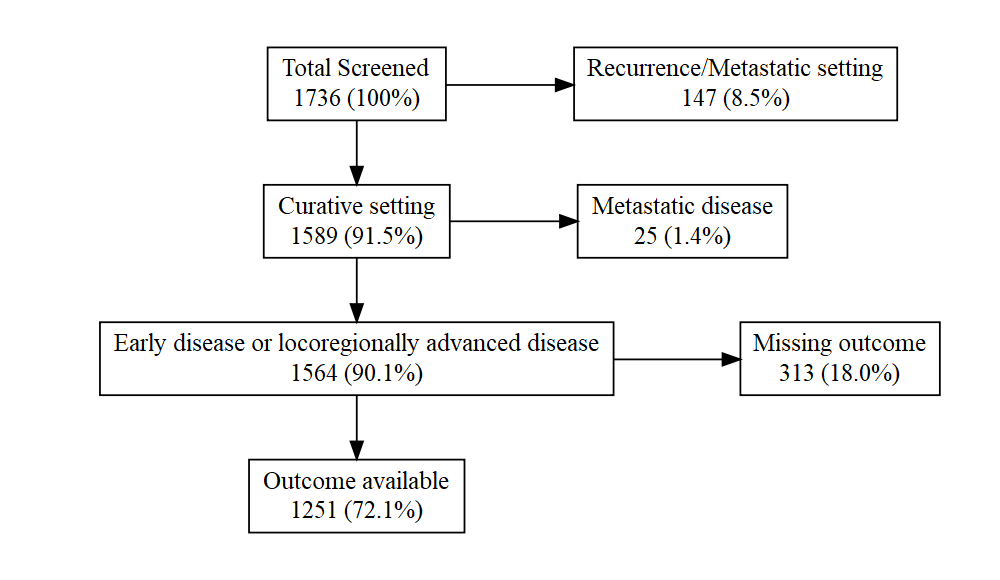
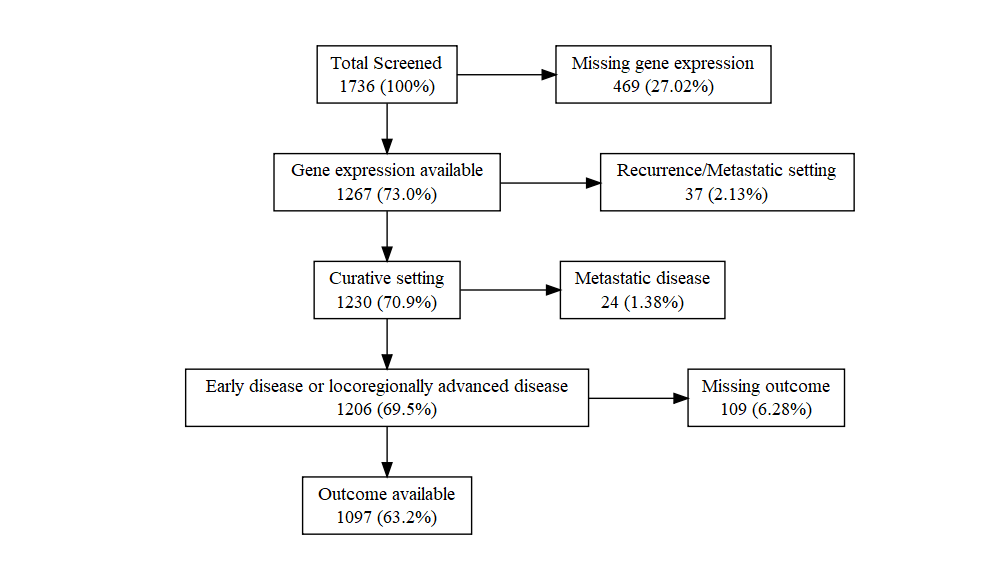
finishing adding all gene signatures

Changed region(s): [[0.093, 0.0621, 0.93, 0.931]]

diff --git a/Exclusion_flowcharts_markdown.md b/Exclusion_flowcharts_markdown.md
@@ -31,7 +31,7 @@ outcome:
 flow_exclusions(incl_counts = c(1736, 1589, 1564, 1251), total_label = "Total Screened",
     incl_labels = c("Curative setting", "Early disease or locoregionally advanced disease",
         "Outcome available"), excl_labels = c("Recurrence/Metastatic setting", "Metastatic disease",
-        "Missing outcome"), percent_of_total = TRUE, labelloc = "t", label = "test")
+        "Missing outcome"), percent_of_total = TRUE)
 ```
 
 ![](Exclusion_flowcharts_markdown_files/figure-gfm/base%20clinical%20dfs-1.png)<!-- -->
@@ -39,13 +39,58 @@ flow_exclusions(incl_counts = c(1736, 1589, 1564, 1251), total_label = "Total Sc
 Next the flowchart for **GS1, GS2 and GS3 and overall survival**. These
 use the same subset of data, but GS3 has different variable encoding.
 
-### STOPPED here
-
 ``` r
-flow_exclusions(incl_counts = c(1736, 1589, 1564, 1251), total_label = "Total Screened",
-    incl_labels = c("Curative setting", "Early disease or locoregionally advanced disease",
-        "Outcome available"), excl_labels = c("Recurrence/Metastatic setting", "Metastatic disease",
-        "Missing outcome"), percent_of_total = TRUE, labelloc = "t", label = "test")
+flow_exclusions(incl_counts = c(1736, 1267, 1230, 1206, 1097), total_label = "Total Screened",
+    incl_labels = c("Gene expression available", "Curative setting", "Early disease or locoregionally advanced disease",
+        "Outcome available"), excl_labels = c("Missing gene expression", "Recurrence/Metastatic setting",
+        "Metastatic disease", "Missing outcome"), percent_of_total = TRUE)
 ```
 
 ![](Exclusion_flowcharts_markdown_files/figure-gfm/GS1%20GS2%20GS3%20OS-1.png)<!-- -->
+
+The flowchart for **GS1, GS2 and GS3 and disease-free survival** is very
+similar. Note that SCANDARE is also excluded at the outcome stage due to
+DFS information being very low quality (same for other flowcharts).
+These also use the same subset of data, but GS3 has different variable
+encoding.
+
+``` r
+flow_exclusions(incl_counts = c(1736, 1267, 1230, 1206, 907), total_label = "Total Screened",
+    incl_labels = c("Gene expression available", "Curative setting", "Early disease or locoregionally advanced disease",
+        "Outcome available"), excl_labels = c("Missing gene expression", "Recurrence/Metastatic setting",
+        "Metastatic disease", "Missing outcome"), percent_of_total = TRUE)
+```
+
+![](Exclusion_flowcharts_markdown_files/figure-gfm/GS1%20GS2%20GS3%20DFS-1.png)<!-- -->
+
+Next the flowchart for **GS4 & GS5 and overall survival**. These use the
+same subset of data, but have different variable encoding for chemo
+agents. These are also only for Locoregionally advanced disease and
+require information about treatment (specifically chemotherapy agents if
+they had chemotherapy).
+
+``` r
+flow_exclusions(incl_counts = c(1736, 1267, 1044, 1012, 802, 750), total_label = "Total Screened",
+    incl_labels = c("Gene expression available", "Locoregionally advanced disease",
+        "Curative setting", "Treatment information available", "Outcome available"),
+    excl_labels = c("Missing gene expression", "Early disease or metastatic disease",
+        "Recurrence/Metastatic setting", "Missing treatment information", "Missing outcome"),
+    percent_of_total = TRUE)
+```
+
+![](Exclusion_flowcharts_markdown_files/figure-gfm/GS4%20GS5%20OS-1.png)<!-- -->
+
+Lastly, the flowchart for **GS4 & GS5 and disease-free survival**. These
+use the same subset of data, but have different variable encoding for
+chemo agents. Very similar to OS above.
+
+``` r
+flow_exclusions(incl_counts = c(1736, 1267, 1044, 1012, 802, 700), total_label = "Total Screened",
+    incl_labels = c("Gene expression available", "Locoregionally advanced disease",
+        "Curative setting", "Treatment information available", "Outcome available"),
+    excl_labels = c("Missing gene expression", "Early disease or metastatic disease",
+        "Recurrence/Metastatic setting", "Missing treatment information", "Missing outcome"),
+    percent_of_total = TRUE)
+```
+
+![](Exclusion_flowcharts_markdown_files/figure-gfm/GS4%20GS5%20DFS-1.png)<!-- -->
